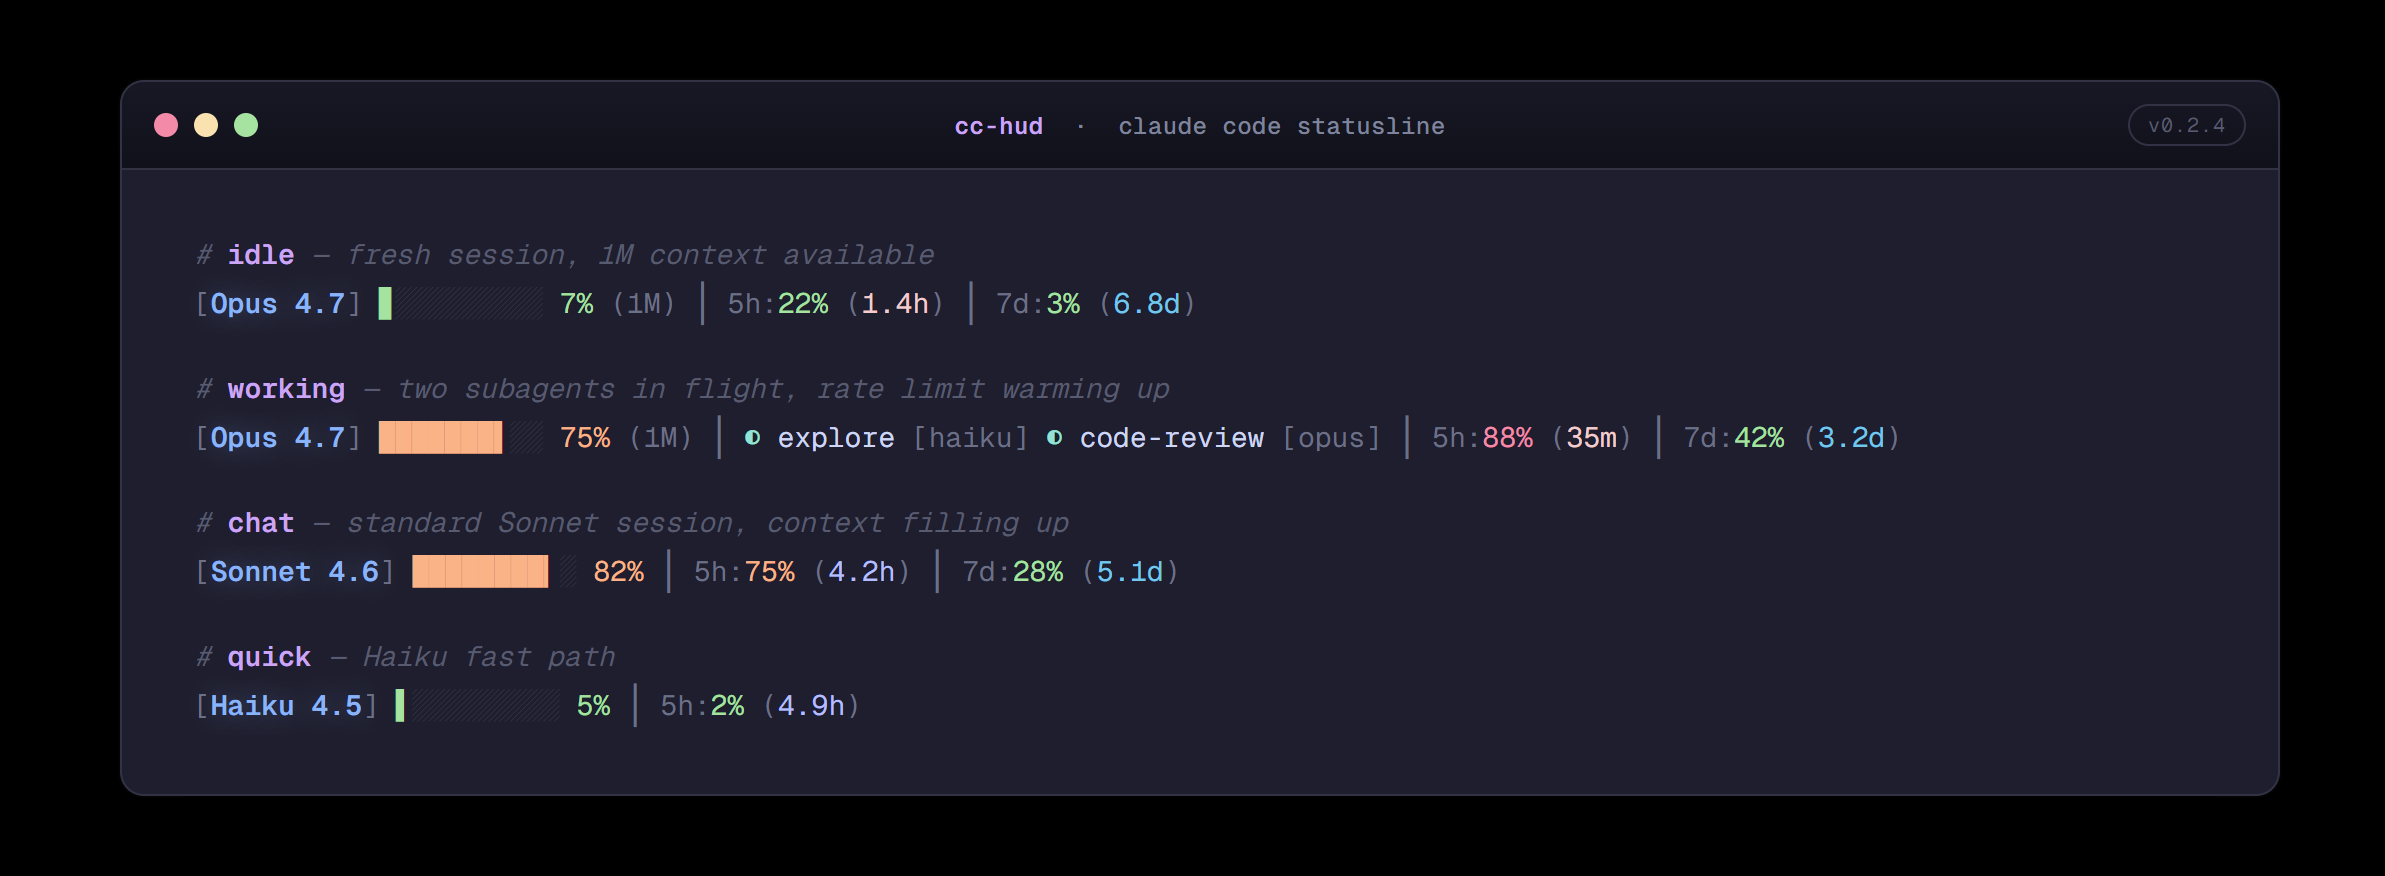
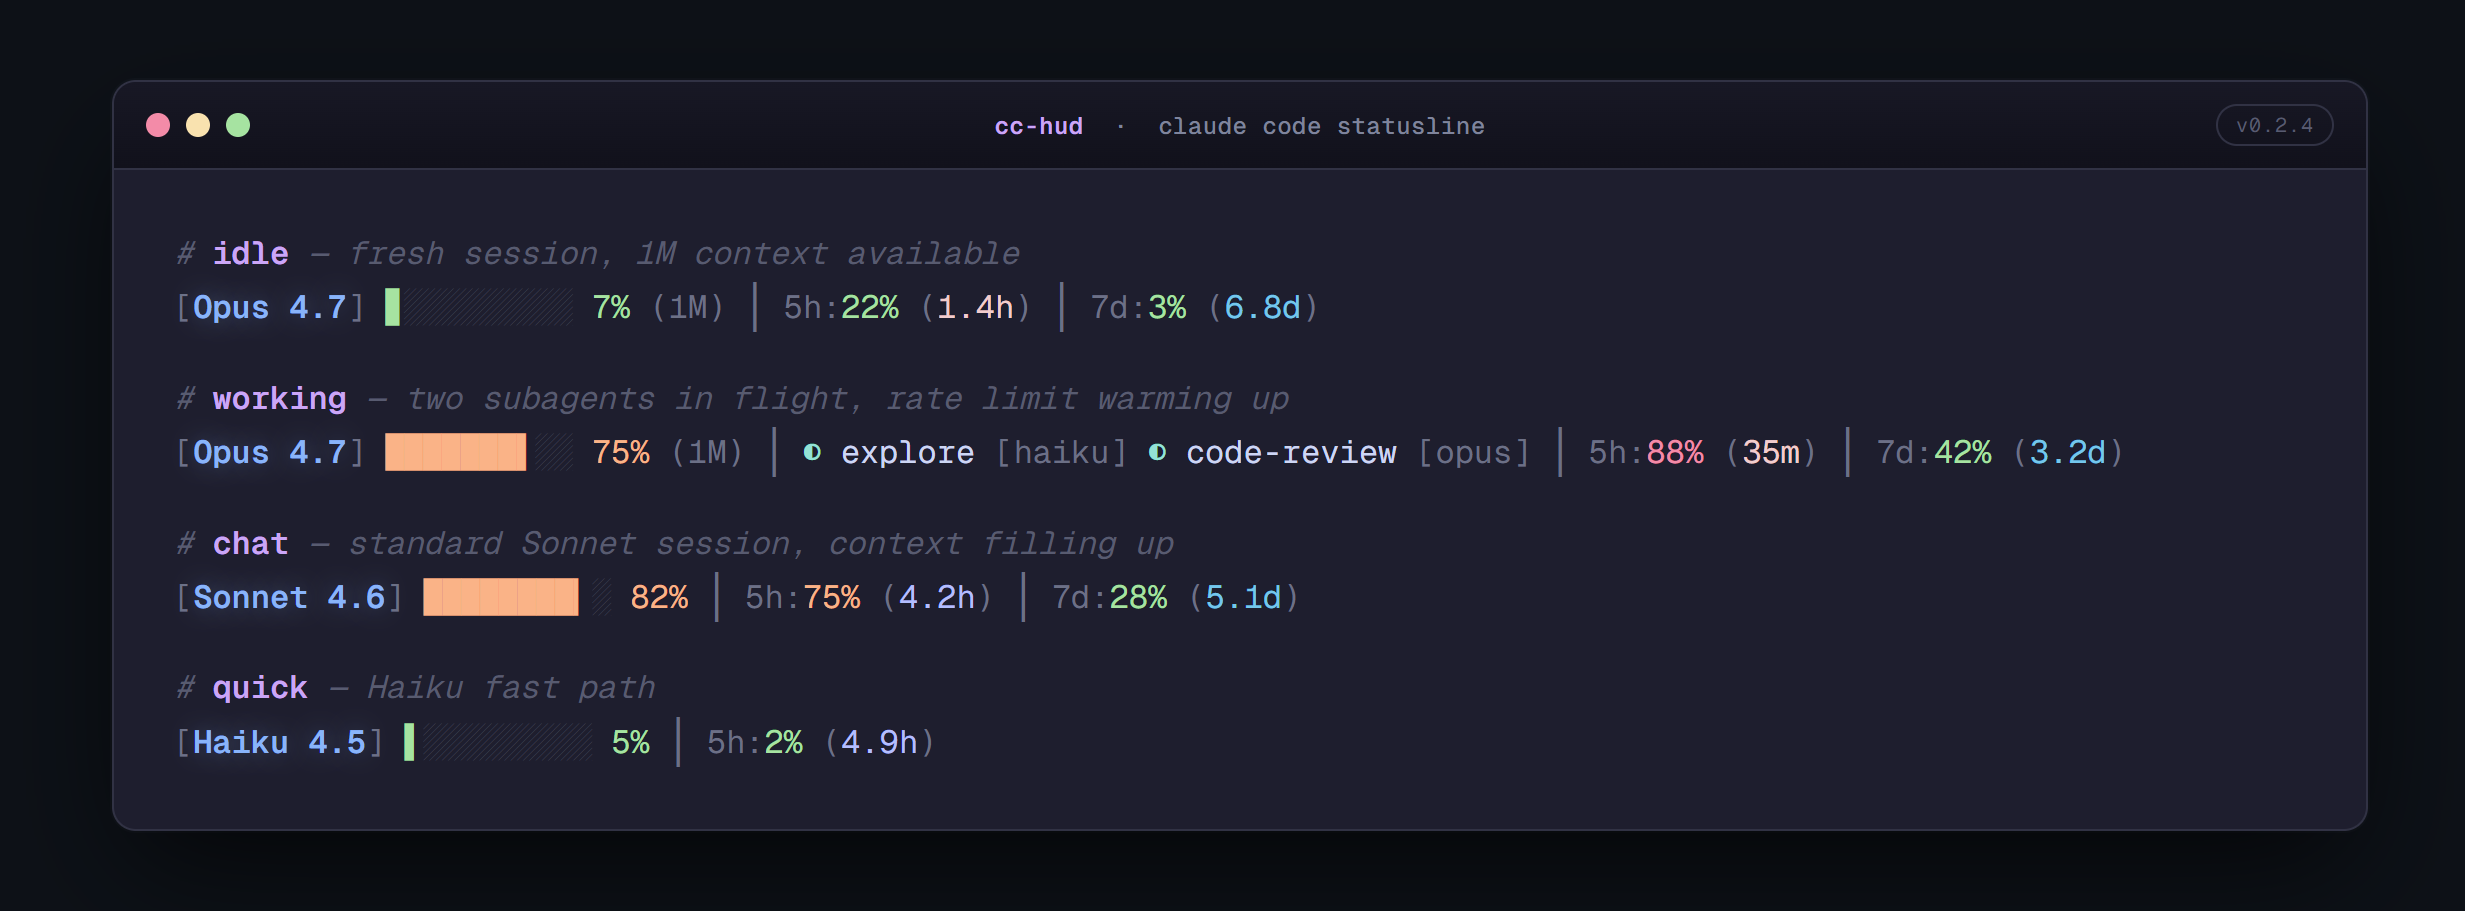
docs: enlarge HUD text and match GitHub dark canvas background
Bump HUD font-size 14→16px, widen terminal window to accommodate,
and set outer background to #0d1117 so the PNG blends with GitHub's
dark mode canvas. README image width 720→900 for better readability.

Changed region(s): [[0.031, 0.0616, 0.9618, 0.9247], [0.4034, 0.1233, 0.6205, 0.1541]]

diff --git a/preview.html b/preview.html
@@ -12,7 +12,8 @@
   html, body { margin: 0; padding: 0; }
 
   body {
-    background: #000;
+    /* Match GitHub dark canvas so the PNG blends seamlessly in README */
+    background: #0d1117;
     font-family: 'Geist', -apple-system, system-ui, sans-serif;
     font-feature-settings: "ss01", "ss02", "cv11";
     -webkit-font-smoothing: antialiased;
@@ -27,7 +28,7 @@
   /* ── Terminal window ── */
   .term {
     width: 100%;
-    max-width: 1080px;
+    max-width: 1160px;
     border-radius: 12px;
     background: #1e1e2e; /* Catppuccin base — real terminal bg */
     border: 1px solid #313244;
@@ -80,10 +81,10 @@
 
   /* Body */
   .body {
-    padding: 30px 36px 32px;
+    padding: 28px 30px 30px;
     font-family: 'Geist Mono', 'JetBrains Mono', 'Cascadia Mono', 'Consolas', monospace;
-    font-size: 14px;
-    line-height: 1.75;
+    font-size: 16px;
+    line-height: 1.7;
     font-feature-settings: "ss02", "ss03", "zero", "cv11";
     letter-spacing: -0.005em;
   }

diff --git a/README.md b/README.md
@@ -13,7 +13,7 @@
 -->
 
 <p align="center">
-  <img src="https://raw.githubusercontent.com/WaterTian/cc-hud/main/cc-hud-preview.png" alt="cc-hud preview" width="720" />
+  <img src="https://raw.githubusercontent.com/WaterTian/cc-hud/main/cc-hud-preview.png" alt="cc-hud preview" width="900" />
 </p>
 
 <h1 align="center">CC-HUD</h1>